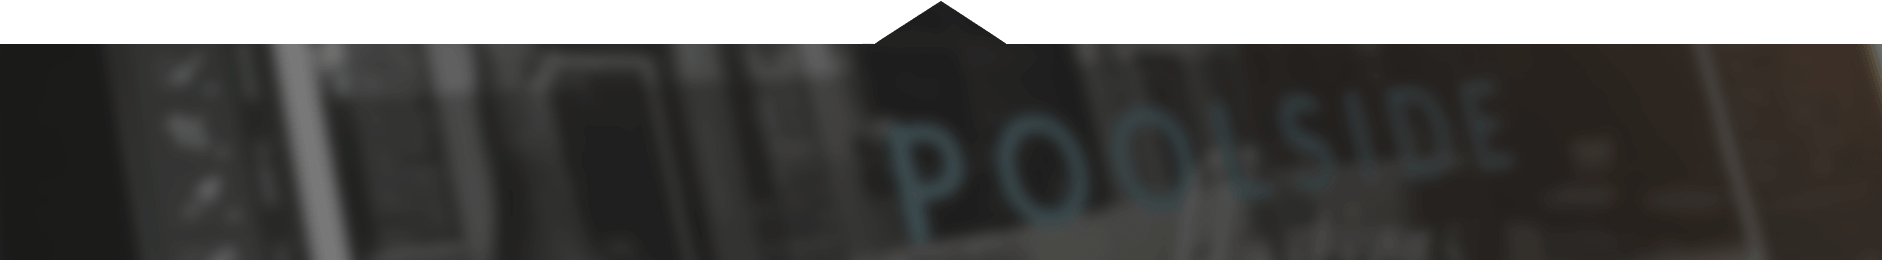
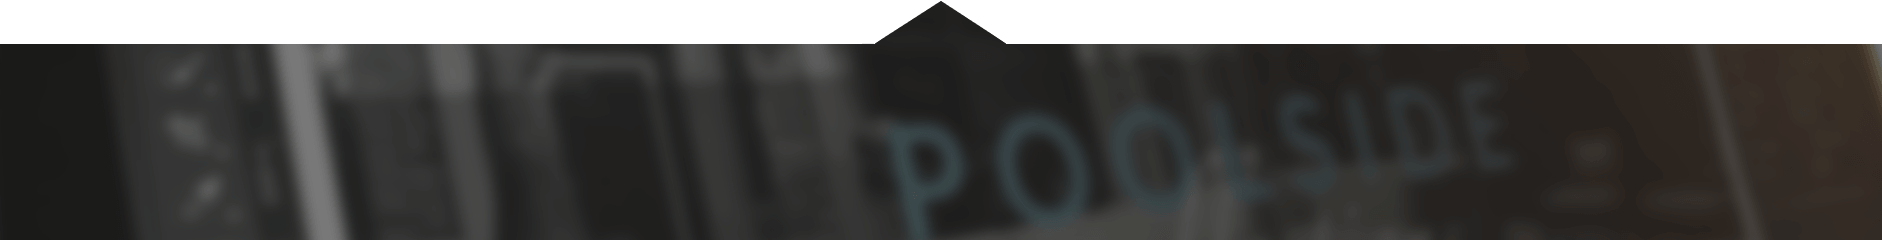
Tweaking Phoenix Page
Editing footer height.

diff --git a/projects/phoenixdirect/CSS/images.css b/projects/phoenixdirect/CSS/images.css
@@ -51,7 +51,7 @@ body {
 .background-title-bottom {
     position: absolute;
     width: 100%;
-    height: 260px;
+    height: 240px;
     margin-top: -50px;
     background: url(../Images/header-6.png);
     background-position: center;
